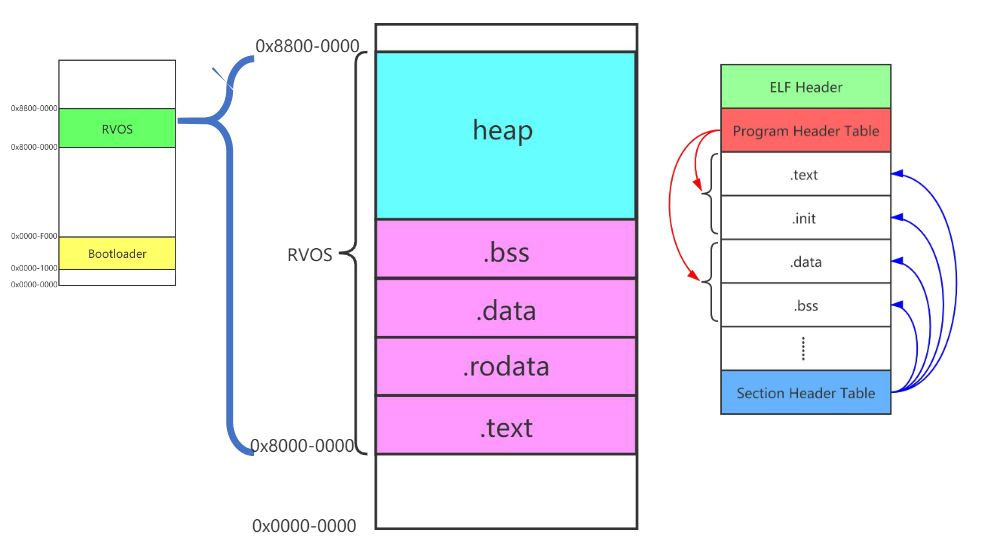
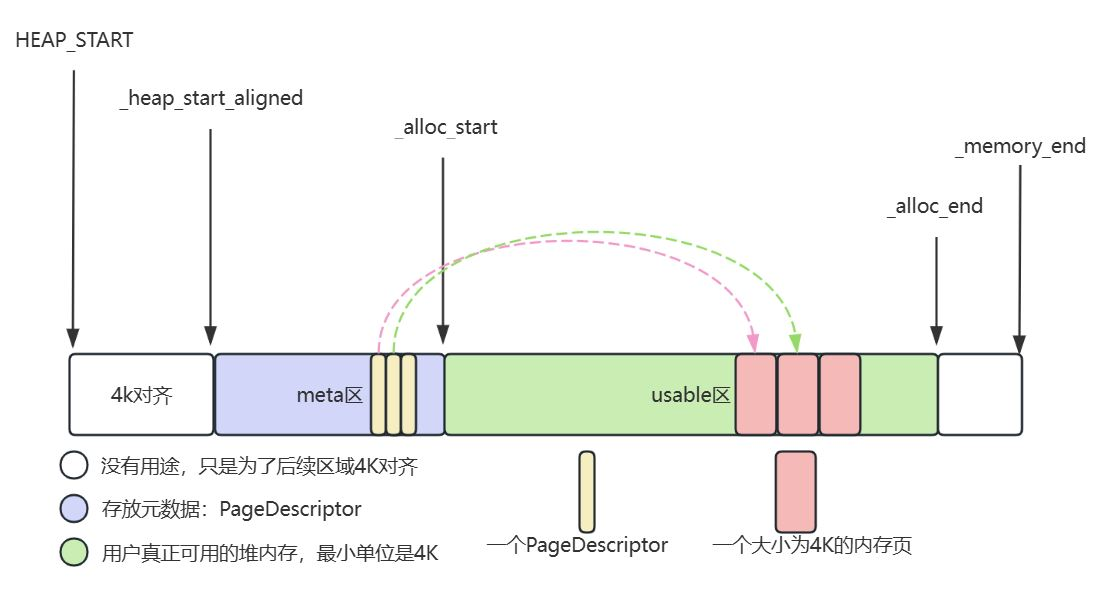
heap布局说明

diff --git a/mds/C/write_os_with_c_in_days/day-04.md b/mds/C/write_os_with_c_in_days/day-04.md
@@ -25,7 +25,7 @@
 
 在对堆内存进行分配之前我们先要知道堆在哪里，即我们需要设计在内存中如何放置数据、代码、堆、栈。基于简单自然，课程中对内存进行了如下布局（这和现代的操作系统内存布局挺相似）
 
-![](../../../imgs/rvos_heap_layout.jpg)
+![](../../../imgs/rvos_mem_layout.jpg)
 
 
 
@@ -181,13 +181,95 @@ extern unsigned int BSS_END;
 
 
 
-
-
-
-
-
-
 ## 堆内存的申请和释放
+
+堆内存的布局如下：
+
+> 内存分配是以*页*(page)为单位进行的，一页就是一个长度为4096KB的内存空间（称为4K页）
+
+![](../../../imgs/rvos_heap_layout.jpg)
+
+* `HEAP_START`：heap的起始地址，紧贴`.bss`
+* `_heap_start_aligned`：heap中跳过经过4K对齐后的起始地址
+* `_alloc_start`：从这个地址往后的内存区域，用于分配内存空间给用户
+
+
+
+具体分为3部分：
+
+1. **无用区**：只用作4K对齐，在本文中不作任何用途。
+2. **元数据管理区**（下称为meta区），用于放置元数据，它描述了usable区中各种4K页的使用情况。
+3. **实际使用区**（下称usable区），用于存放分配给用户的4K页。
+
+### 实现内存管理的思路
+
+* 用`PageDescriptor`这个结构体来记录usable区中各种4K页的使用情况，**堆内存的管理全在meta区进行，不会涉及usable区**
+* 申请内存的函数返回的是usable区的地址，可以**通过简单的方法将这个地址映射回meta区的某个`PageDescriptor`的地址**，这样内存回收的函数设计就变得简单，直接传这个地址即可。
+
+
+
+### 一些实现细节
+
+**定义`PageDescriptor`结构体**
+
+```c
+/*
+第0位：页是否使用
+第1位：是否为某段连续内存的结尾
+第2位：是否为某段连续内存的开始（暂不实现）
+*/
+struct PageDescriptor
+{
+    uint8_t flags;
+};
+```
+
+这个结构体在RISCV32上其大小必定是一个字节。
+
+
+
+**meta区的大小**
+
+我们假设meta区需要 $x$ 页，usable区占据 $y$ ，而一个meta区的页满载时可以存放4096个描述符，那么有：
+
+令 $size=HEAP\_SIZE - (\_alloc\_start - HEAP\_START)$
+$$
+\begin{cases}
+x+y=size/4096\\
+4096x = y
+\end{cases}
+$$
+所以：
+$$
+x=\frac{size}{4096*4097}
+$$
+最理想的情况下，`size`应该是4096*4097的整数倍，否则解就会出现小数。这意味着在最极端的情况下会出现meta区的descriptor数量比usable区的4K页数量要多的情况。为了简单和保险，我们将 $x$ 向下取正以规避这种情形。
+
+
+
+
+
+### 4k对齐的算法
+
+首先要知道以下性质:
+
+* **一个无符号整数若是4k的整数倍，那么它的二进制低12位必定为0**，因为`2^12=4096`
+* 如果想要生成一个低12位全为1的掩码，即`0b111111111111`，可以通过 `(1<<12) -1`进行
+* 把数值`v`按照某个粒度进行对齐，只需要加上这个粒度，然后把低位的全置零即可（超过对齐线的部分去掉）
+
+
+
+因此具体的做法是：
+
+1. 首先，生成一个4k掩码`mask=0b111111111111=(1<<12) -1`。注意，对这个掩码取反的话，就得到一个高位全为1，低12位全为0的掩码，即`~mask`。
+
+2. 然后某个地址`addr`，令`r = addr + mask`，此时有两种可能：
+   1. 如果`addr`本来就是4k对齐（其低12位全为0），那么加上`mask`后不会产生进位，此时进行`r & ~mask`操作就得到`addr`本身，符合要求。
+   2. 如果`addr`本来没有4k对齐，那么加上`mask`后会产生进位到高位，此时进行`r & ~mask`操作（将低12位全部置零，高位不变），就得到一个距离`addr`最近的4k的值。
+
+
+
+
 
 
 
